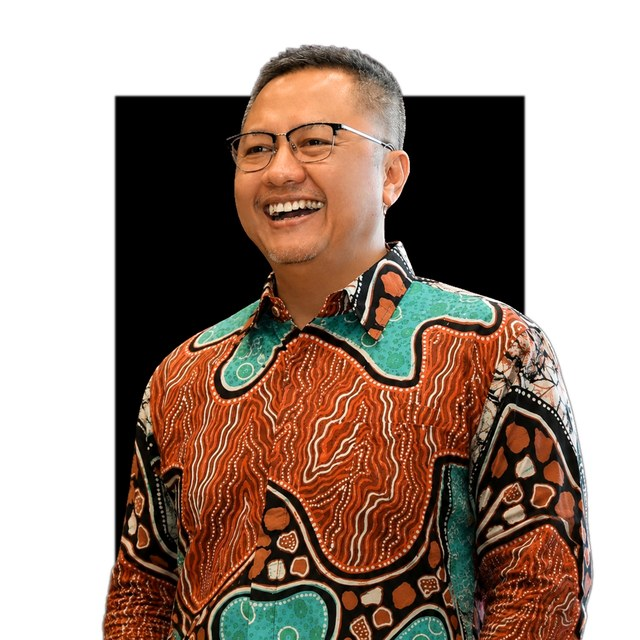
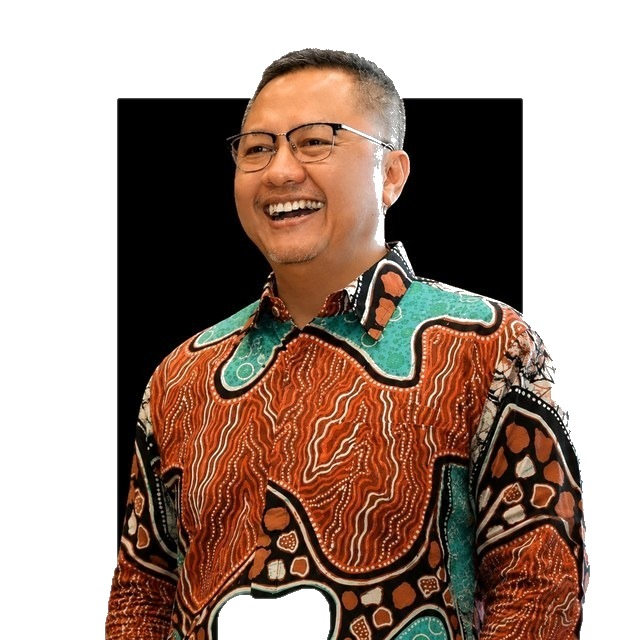
Pure white speaker photo backgrounds (halo removed), hero countdown synced to live war schedule (economy open since Aug 16)

diff --git a/frontend/src/components/Hero.jsx b/frontend/src/components/Hero.jsx
@@ -2,10 +2,11 @@ import React, { useState, useEffect } from "react";
 import { Calendar, Clock, MapPin, Timer, Heart, Users, CheckCircle2 } from "lucide-react";
 
 // Jadwal penting (WIB) — countdown otomatis mengikuti milestone berikutnya
+// (War Economy sudah BERLANGSUNG sejak 16 Agustus 00.00 WIB)
 const MILESTONES = [
-  { at: new Date("2026-08-17T00:00:00+07:00"), label: "Pembukaan War Tiket Economy" },
   { at: new Date("2026-08-21T00:00:00+07:00"), label: "Pembukaan War Tiket Reguler" },
   { at: new Date("2026-08-25T00:00:00+07:00"), label: "Pembukaan War Tiket Premium" },
+  { at: new Date("2026-08-28T23:59:59+07:00"), label: "Penutupan War Tiket Premium" },
   { at: new Date("2026-09-09T07:30:00+07:00"), label: "Hari Seminar Sang Maha Cinta" }
 ];
 
@@ -23,7 +24,7 @@ export default function Hero({ setPage }) {
     minutes: 0,
     seconds: 0,
   });
-  const [countdownLabel, setCountdownLabel] = useState("Menuju War Tiket Economy:");
+  const [countdownLabel, setCountdownLabel] = useState("Memuat jadwal penting...");
 
   useEffect(() => {
     const tick = () => {
